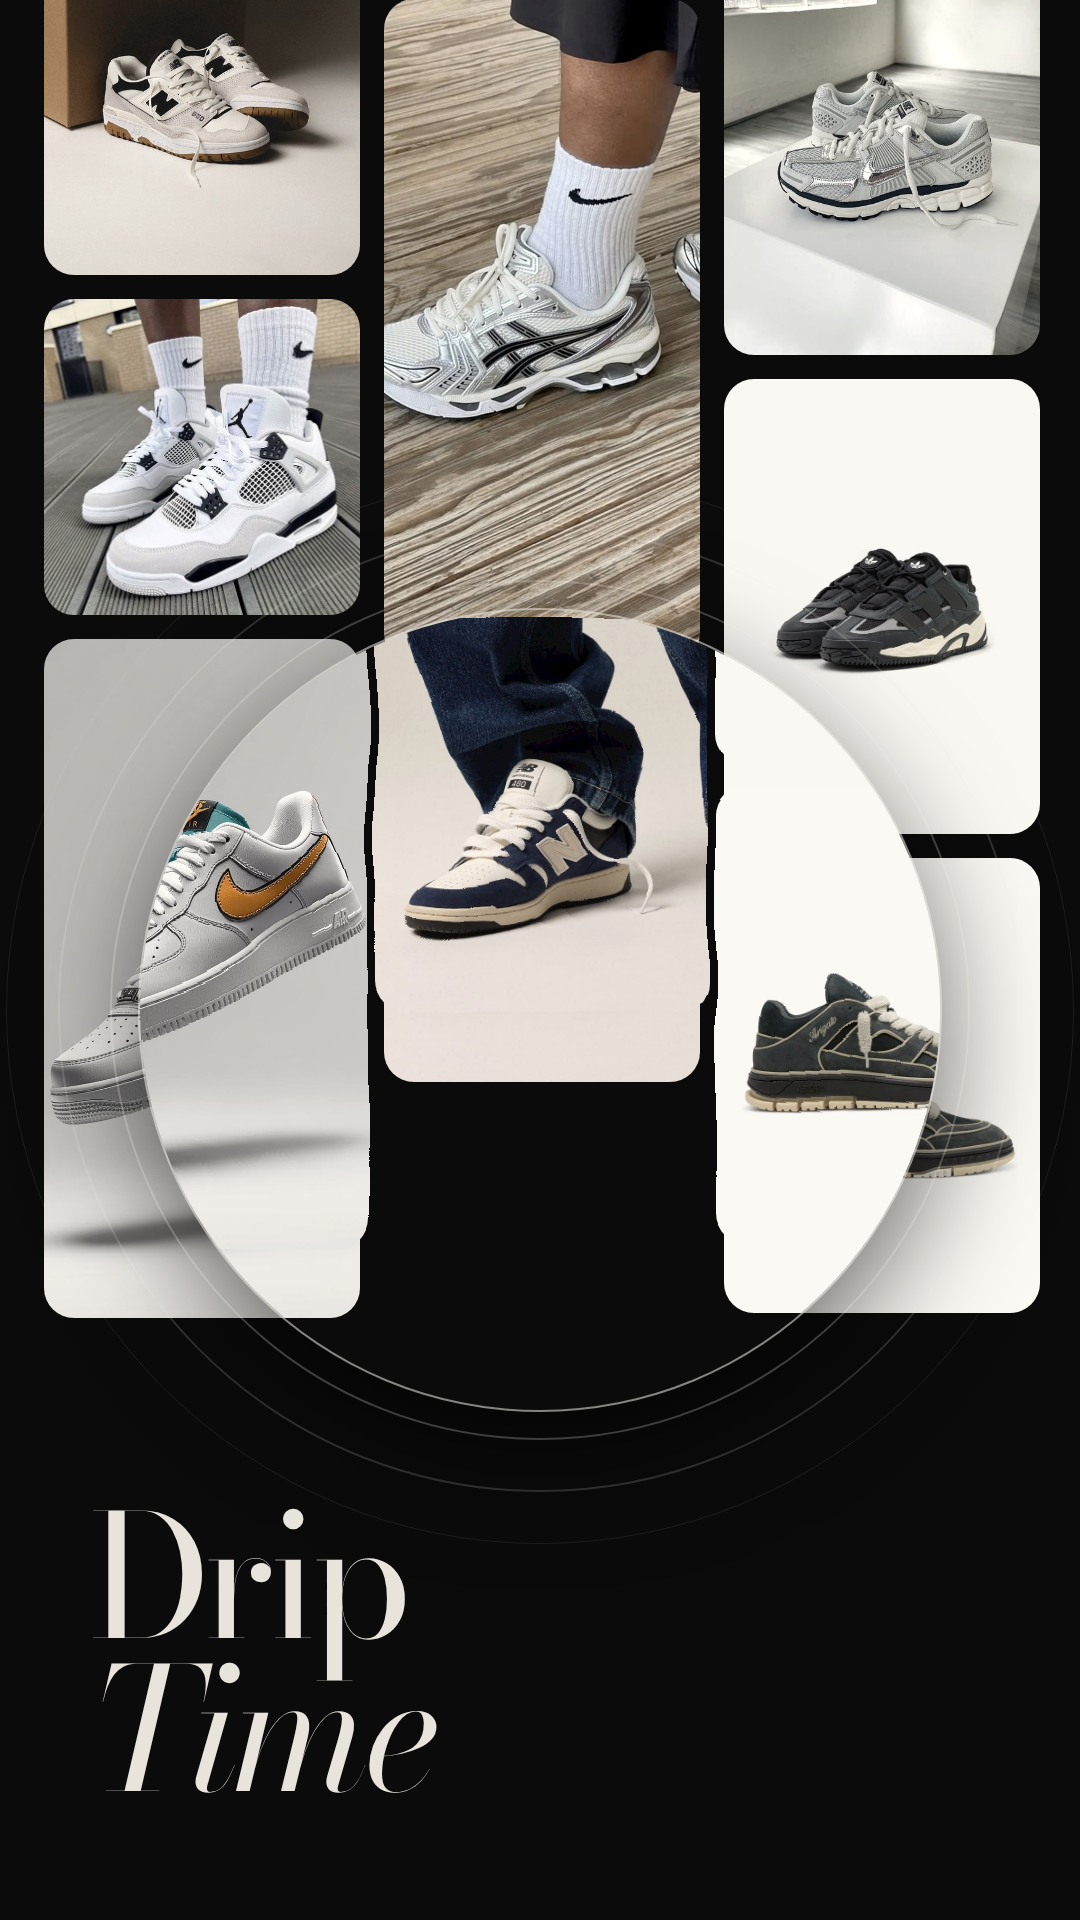
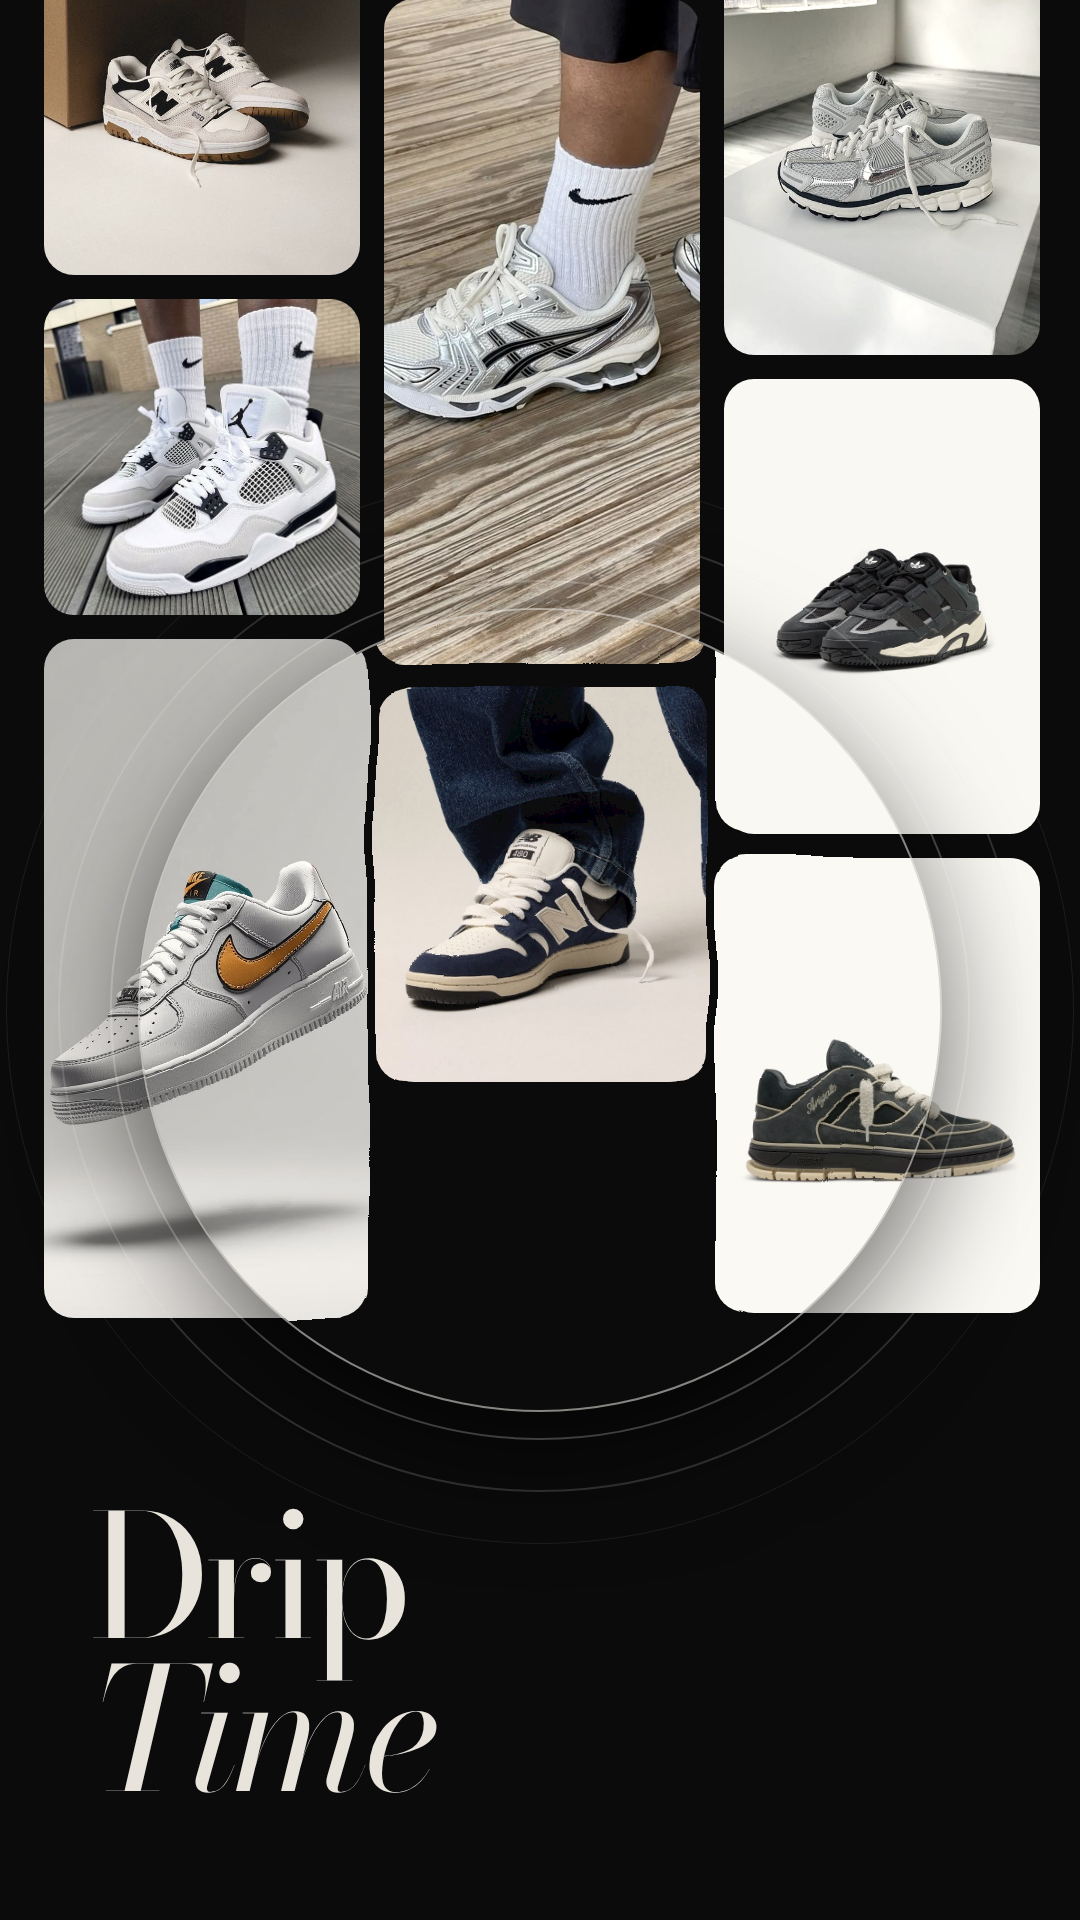
DRIP VERSE: align montage lens
Claude-Session: https://claude.ai/code/session_01U1wSaNYX9KEiXteEpjcsEr

Changed region(s): [[0.1222, 0.3125, 0.8556, 0.6875], [0.6417, 0.5, 0.8861, 0.625], [0.6417, 0.625, 0.6722, 0.6875]]

diff --git a/videos/dripverse/stills.html b/videos/dripverse/stills.html
@@ -51,7 +51,7 @@ if(S==='montage'){        // t = 16.0 s : after the drop, three columns of cards
   h(`<svg width="0" height="0"><filter id="wl" x="0" y="0" width="100%" height="100%"><feTurbulence type="fractalNoise" baseFrequency=".006 .009" numOctaves="2" seed="4"/><feDisplacementMap in="SourceGraphic" scale="12" xChannelSelector="R" yChannelSelector="G"/></filter></svg>`);
   h(`<div style="left:140px;top:610px;width:800px;height:800px;border-radius:50%;overflow:hidden;box-shadow:0 0 0 2px rgba(243,239,232,.55), 0 40px 120px rgba(0,0,0,.6)"><div id="lens" style="left:-140px;top:-610px;width:1080px;height:1920px;filter:url(#wl)"></div></div>`);
   const lens=document.getElementById('lens');
-  cols.forEach((c,ci)=>{let y=off[ci]-70;c.forEach((n,ri)=>{const w=316,hh=Math.round(w*ar[ci][ri]);lens.insertAdjacentHTML('beforeend',`<div class="card" style="left:${44+ci*340-8}px;top:${y}px;width:${w+16}px;height:${hh}px;background-image:url(${P(n)})"></div>`);y+=hh+24})});
+  cols.forEach((c,ci)=>{let y=off[ci];c.forEach((n,ri)=>{const w=316,hh=Math.round(w*ar[ci][ri]);lens.insertAdjacentHTML('beforeend',`<div class="card" style="left:${44+ci*340-8}px;top:${y}px;width:${w+16}px;height:${hh}px;background-image:url(${P(n)})"></div>`);y+=hh+24})});
   h(rings(540,1010,430,3,52,1,'rgba(243,239,232,.3)',.8));
   h(`<div style="left:90px;top:1500px;font:400 170px/.9 Bodoni;color:var(--bone);letter-spacing:-6px;mix-blend-mode:difference">Drip<br><i>Time</i></div>`);
 }
